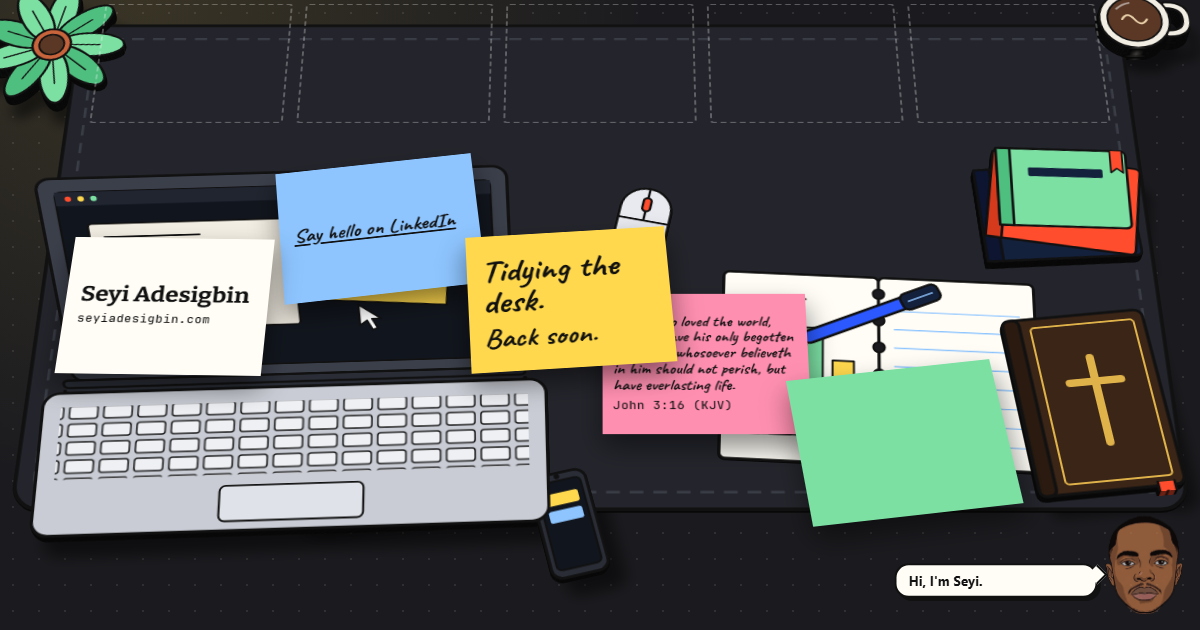
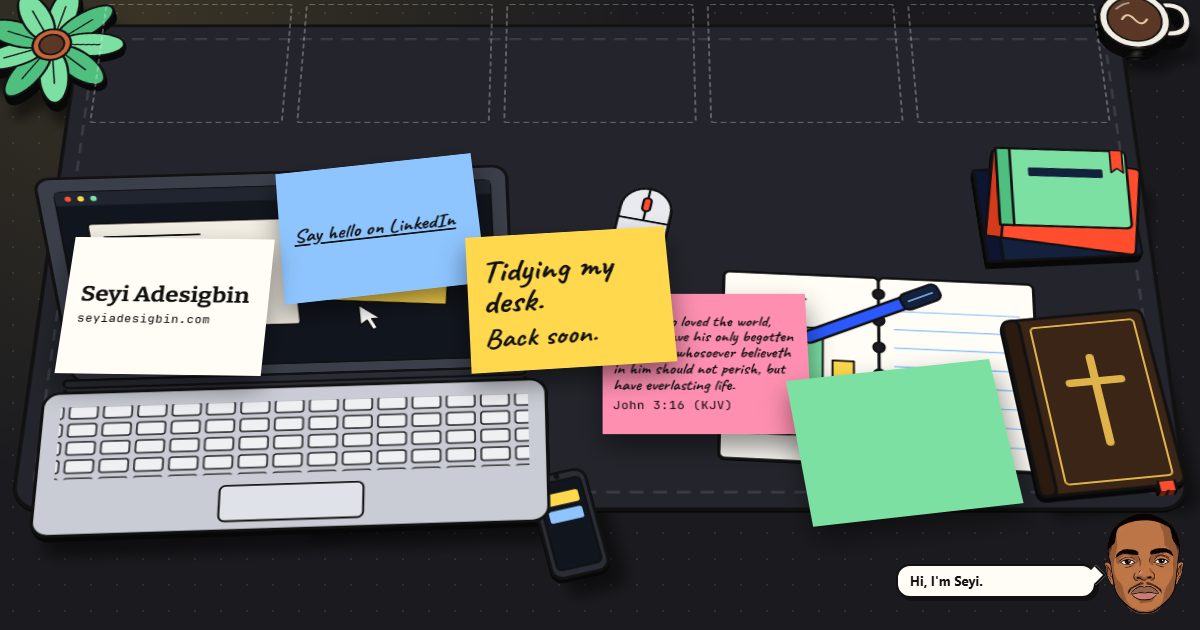
fix(holding): say "Tidying my desk." in the headline, dialog and share text
Change "Tidying the desk." to "Tidying my desk." in the headline note, the welcome dialog, the page description, the
share-preview description and alt text, and the no-script line. The button "Tidy the desk" and the finished headline
"Desk tidied." are unchanged. Rebuild og-image.png, which showed the old headline.

"Just looking" in the dialog only closes it; the desk is already there to tidy, so its behaviour is unchanged.

Checked: node --check; screenshot of the share view at 1200x630 shows the new wording. Not checked: the share card in
LinkedIn or WhatsApp.

Changed region(s): [[0.8942, 0.8143, 0.9867, 0.9651], [0.74, 0.9048, 0.8325, 0.9349], [0.4625, 0.3921, 0.5242, 0.4524]]

diff --git a/holding/index.html b/holding/index.html
@@ -4,17 +4,17 @@
   <meta charset="utf-8">
   <meta name="viewport" content="width=device-width, initial-scale=1">
   <title>Seyi Adesigbin | Coming soon</title>
-  <meta name="description" content="Tidying the desk. Back soon.">
+  <meta name="description" content="Tidying my desk. Back soon.">
   <meta name="theme-color" content="#1b1b1f">
 
   <meta property="og:type" content="website">
   <meta property="og:title" content="Seyi Adesigbin | Coming soon">
-  <meta property="og:description" content="Tidying the desk. Back soon.">
+  <meta property="og:description" content="Tidying my desk. Back soon.">
   <meta property="og:url" content="https://seyiadesigbin.com/">
   <meta property="og:image" content="https://seyiadesigbin.com/og-image.png">
   <meta property="og:image:width" content="1200">
   <meta property="og:image:height" content="630">
-  <meta property="og:image:alt" content="A dark desk covered in untidy sticky notes. The yellow one reads: Tidying the desk. Back soon.">
+  <meta property="og:image:alt" content="A dark desk covered in untidy sticky notes. The yellow one reads: Tidying my desk. Back soon.">
   <meta name="twitter:card" content="summary_large_image">
 
   <meta name="robots" content="noindex">
@@ -76,7 +76,7 @@
     <div class="avatar__head"><img src="assets/head.png" alt="" width="136" height="171"></div>
   </aside>
 
-  <noscript><p class="nojs">Seyi Adesigbin. Tidying the desk. Back soon.</p></noscript>
+  <noscript><p class="nojs">Seyi Adesigbin. Tidying my desk. Back soon.</p></noscript>
   <script src="holding-sound.js"></script>
   <script src="holding.js"></script>
   <script src="holding-3d.js"></script>

diff --git a/holding/holding.js b/holding/holding.js
@@ -7,7 +7,7 @@
  */
 (function () {
   var CONTENT = {
-    headline: "Tidying the desk.",
+    headline: "Tidying my desk.",
     headlineDone: "Desk tidied.",
     sub: "Back soon.",
     name: "Seyi Adesigbin",
@@ -21,7 +21,7 @@
     thanks: "Thank you! This looks much better!",
     welcomeTag: "Coming soon",
     welcomeTitle: "Seyi Adesigbin",
-    welcomeText: "Tidying the desk. Back soon.",
+    welcomeText: "Tidying my desk. Back soon.",
     welcomeGo: "Tidy the desk",
     welcomeLook: "Just looking",
     soundOn: "Sound: on",
